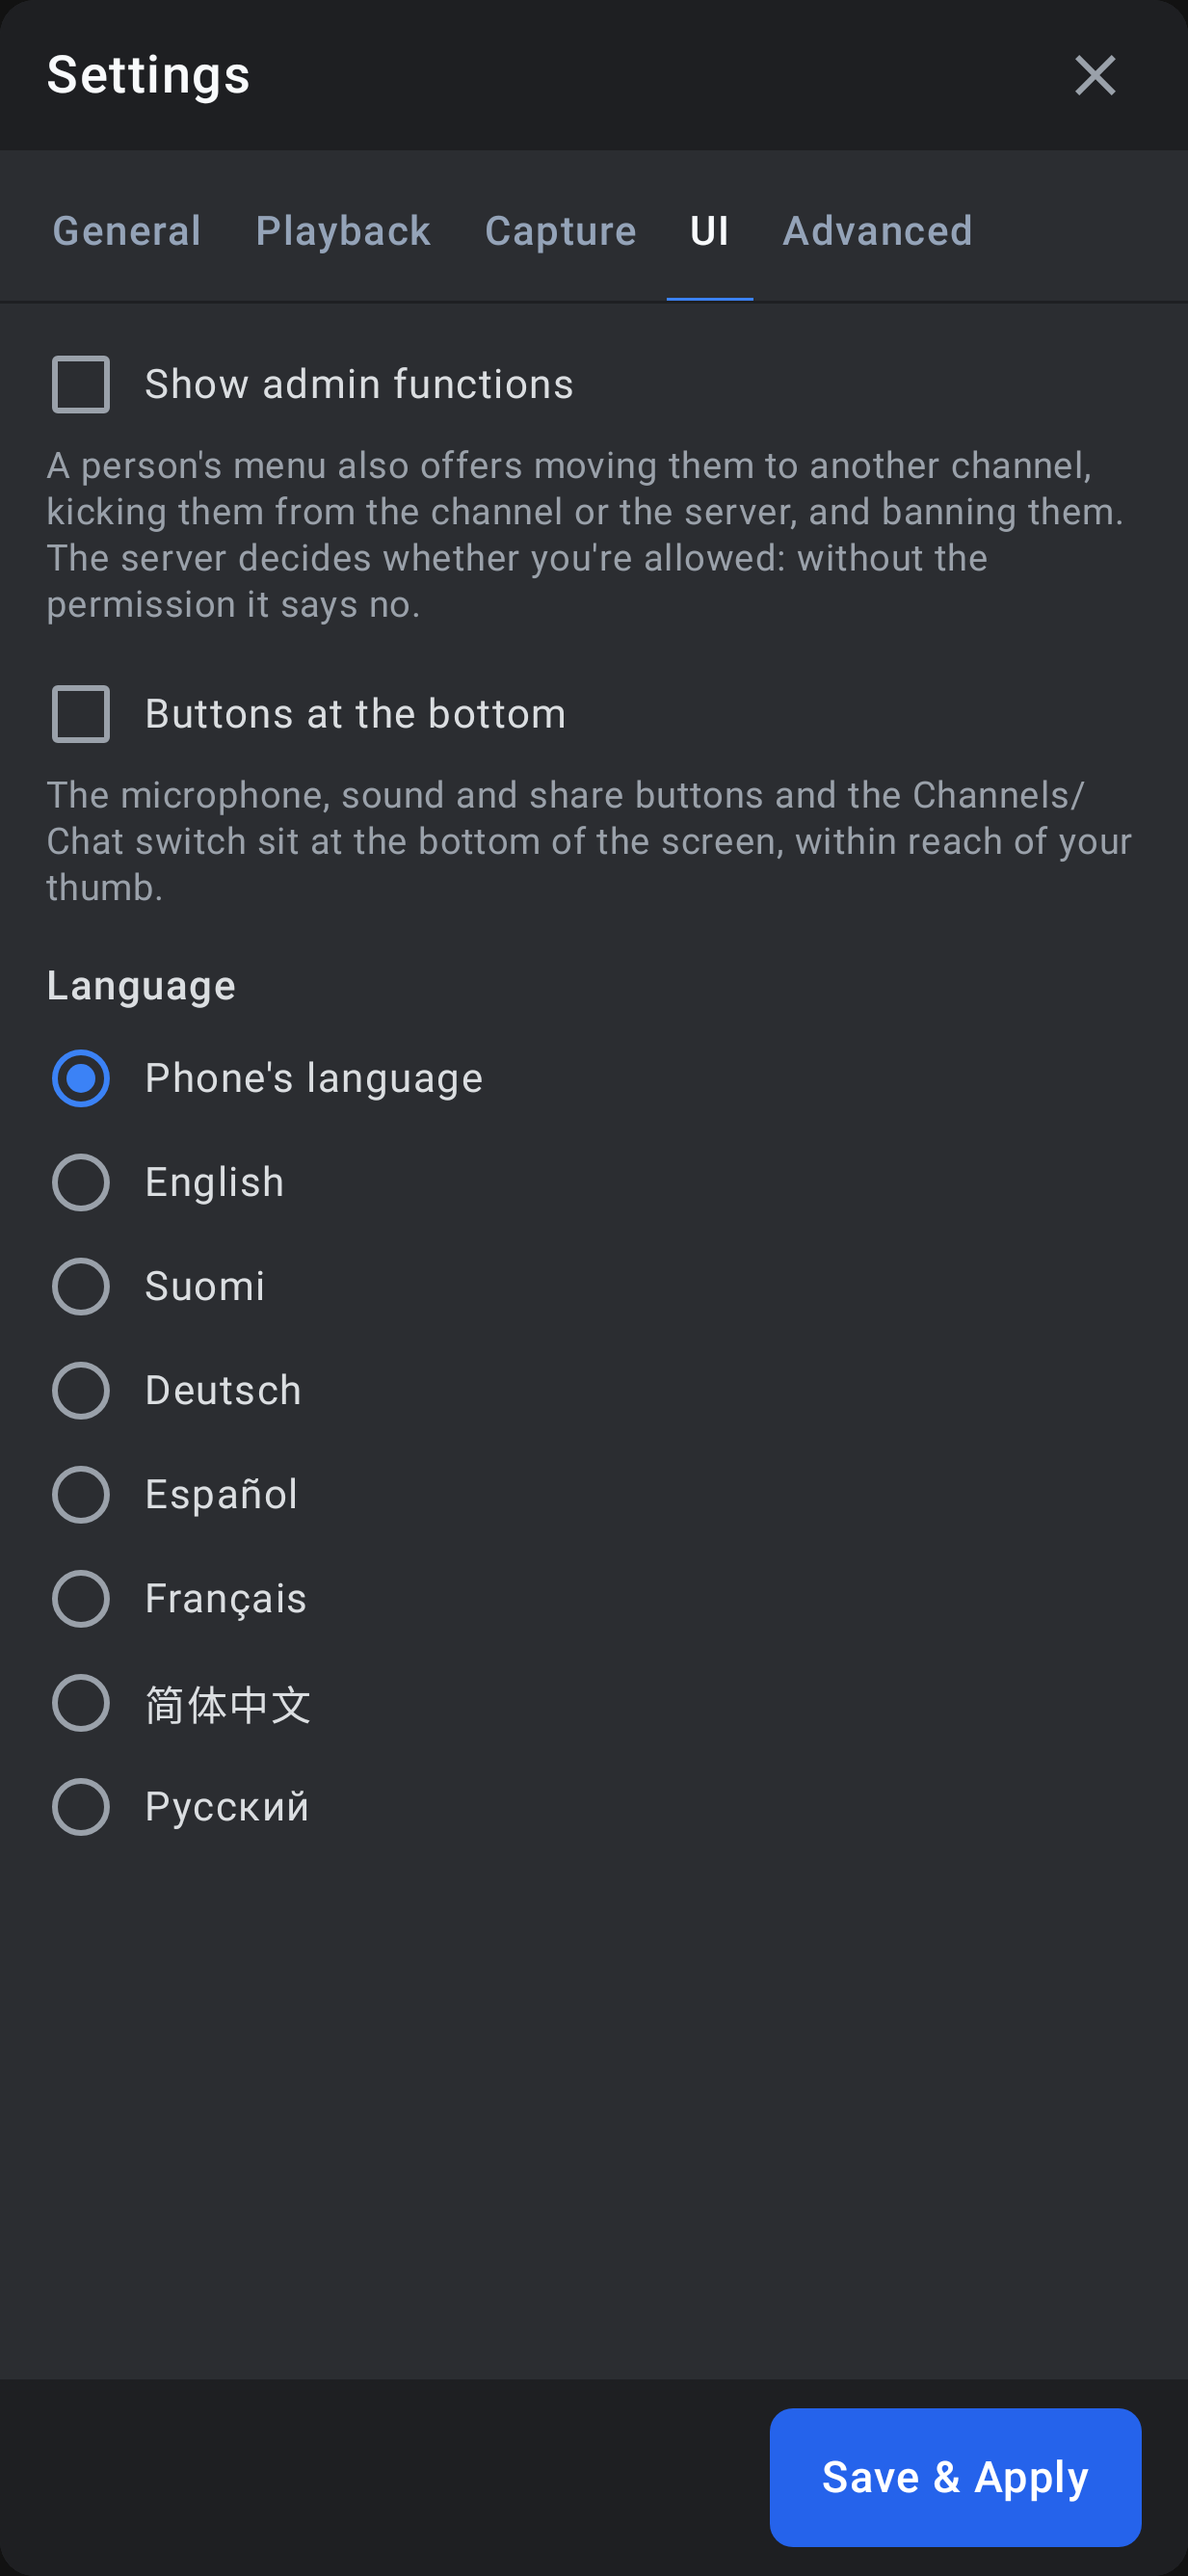
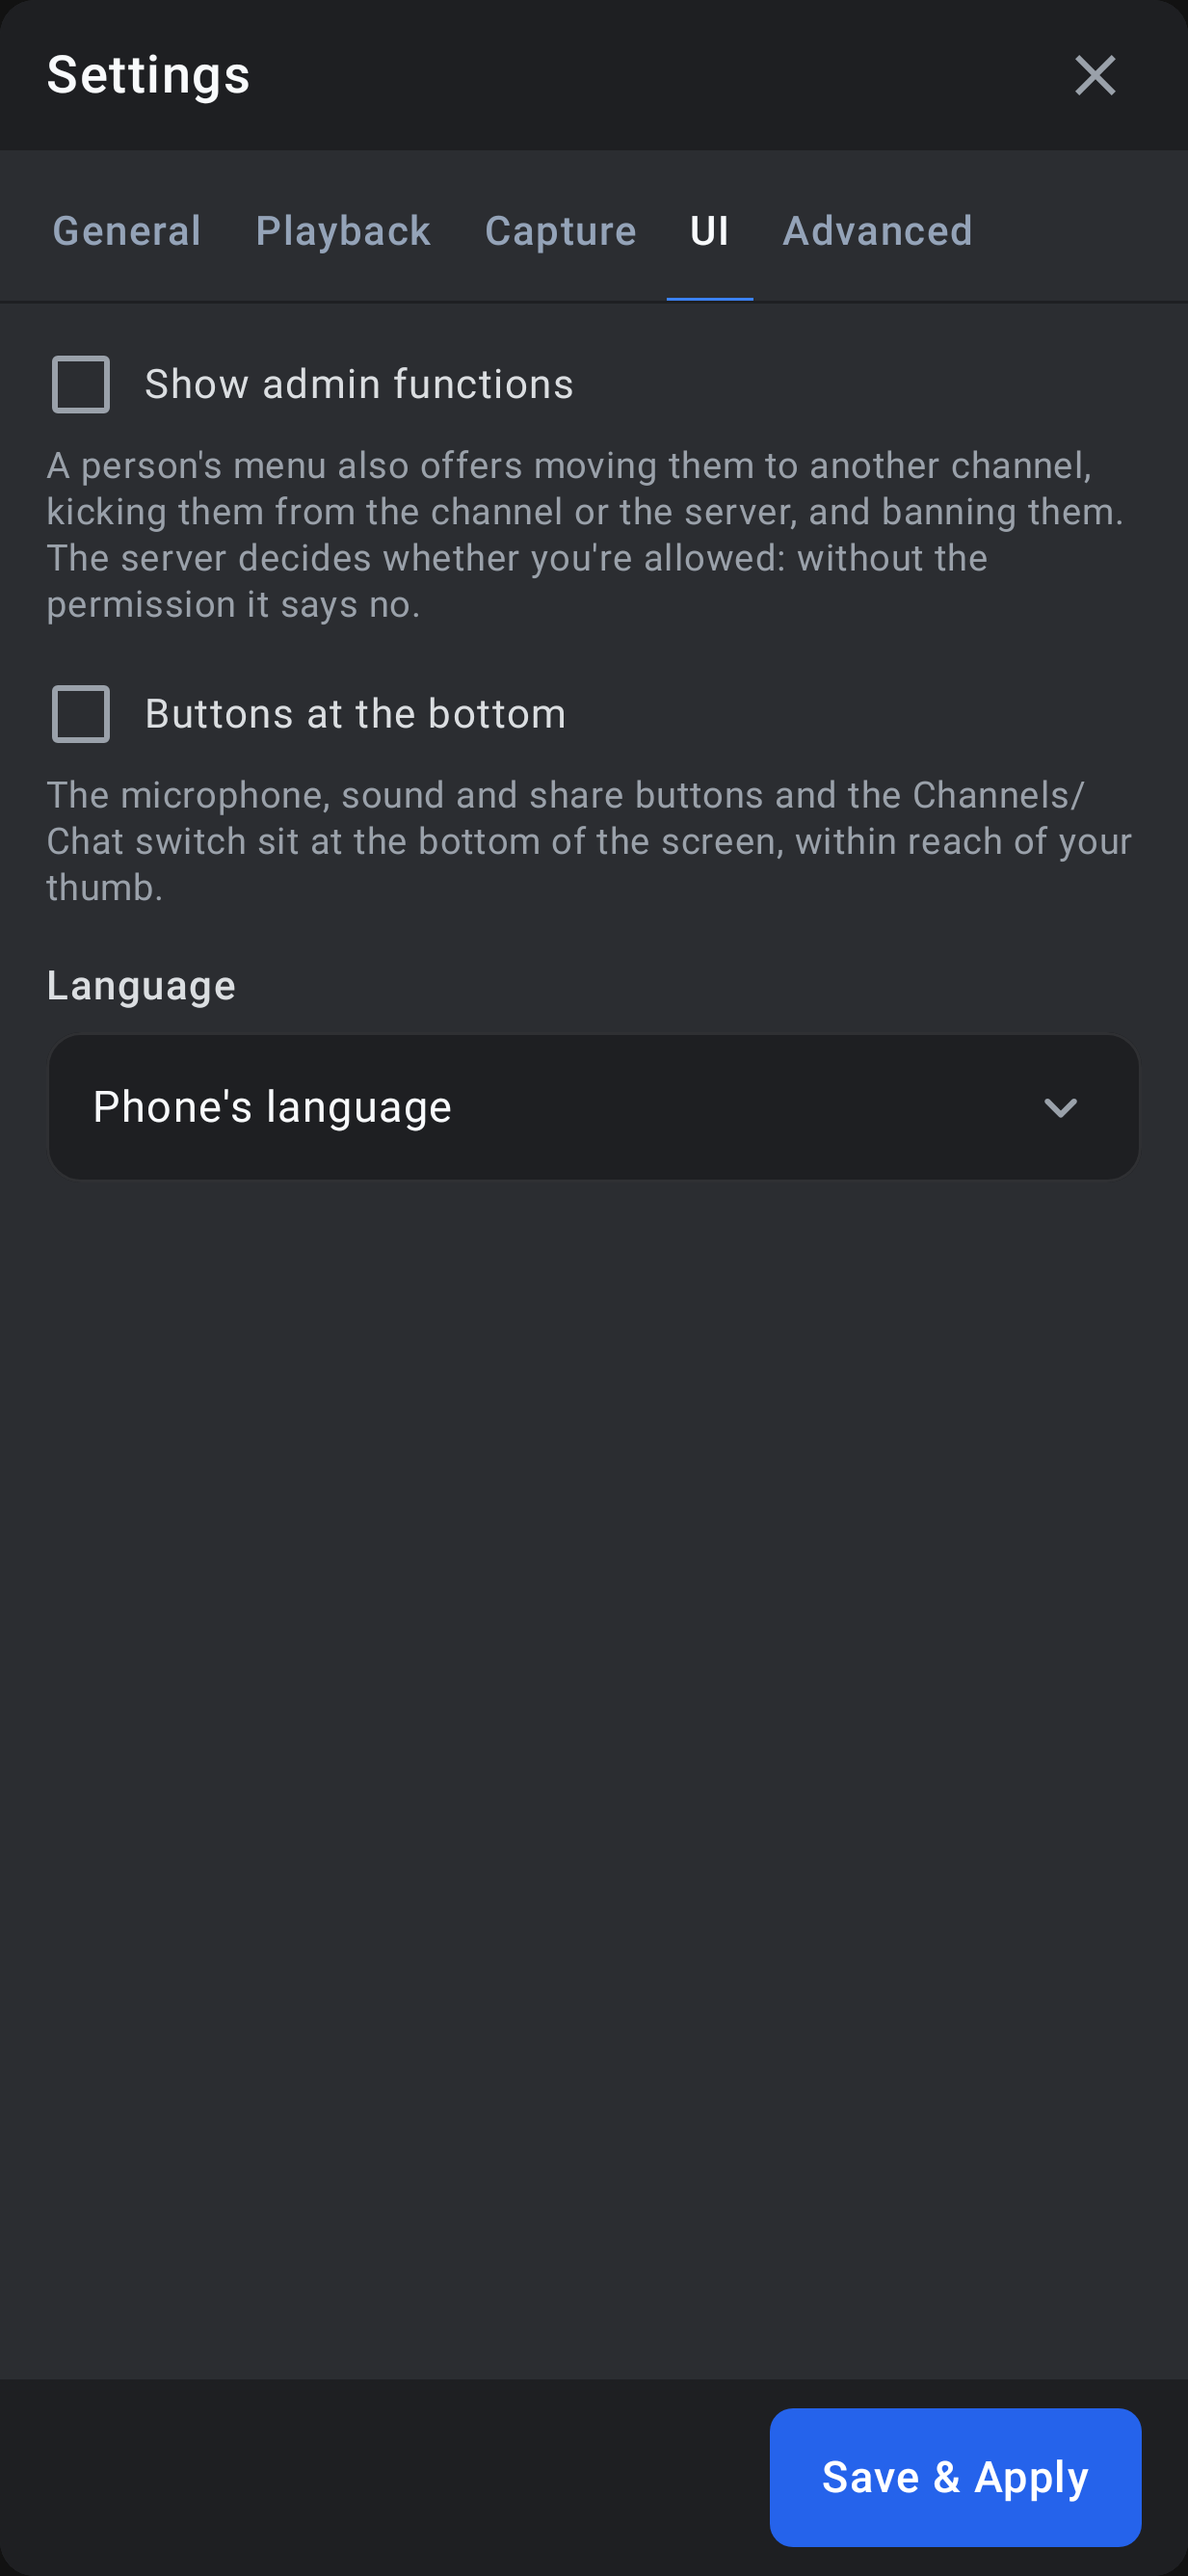
Settings: the language as a list to open
The languages were radio buttons under each other, growing with each
translation. Now one row shows the chosen one, and a tap opens the list
(it scrolls when there are many), the chosen one ticked.

Changed region(s): [[0.0308, 0.4037, 0.4006, 0.7142], [0.1233, 0.4968, 0.2466, 0.59], [0.1233, 0.6521, 0.2466, 0.7142]]

diff --git a/app/src/main/kotlin/io/github/korppujauho/pocketts/ui/SettingsDialog.kt b/app/src/main/kotlin/io/github/korppujauho/pocketts/ui/SettingsDialog.kt
@@ -7,6 +7,9 @@ import androidx.compose.material.icons.rounded.Key
 import androidx.compose.material.icons.rounded.DeleteOutline
 import androidx.compose.material.icons.filled.Close
 import androidx.compose.foundation.background
+import androidx.compose.foundation.border
+import androidx.compose.material.icons.rounded.Check
+import androidx.compose.material.icons.rounded.ExpandMore
 import androidx.compose.foundation.horizontalScroll
 import androidx.compose.foundation.clickable
 import androidx.compose.foundation.layout.Arrangement
@@ -464,12 +467,44 @@ private fun Ui(v: VoiceSettings, onChange: (VoiceSettings) -> Unit) {
     }
 }
 
-/** The app's language: the phone's, or one of the translations by its own name. */
+/**
+ * The app's language: the phone's, or one of the translations by its own name. One row showing the chosen one; a tap
+ * opens the list (it scrolls when there are many).
+ */
 @Composable
 private fun Language(tag: String, onChange: (String) -> Unit) {
+    val choices = listOf("" to stringResource(R.string.ui_language_phone)) + io.github.korppujauho.pocketts.AppLanguage.choices
+    val chosen = choices.firstOrNull { it.first == tag }?.second ?: choices.first().second
+    var open by remember { mutableStateOf(false) }
     Group(stringResource(R.string.ui_language)) {
-        Radio(stringResource(R.string.ui_language_phone), tag.isEmpty()) { onChange("") }
-        for ((t, name) in io.github.korppujauho.pocketts.AppLanguage.choices) Radio(name, tag == t) { onChange(t) }
+        Box {
+            Row(
+                Modifier.fillMaxWidth().clip(RoundedCornerShape(12.dp)).background(Ts.card)
+                    .border(1.dp, Color(0x14FFFFFF), RoundedCornerShape(12.dp))
+                    .clickable(role = androidx.compose.ui.semantics.Role.DropdownList) { open = true }
+                    .padding(horizontal = 16.dp, vertical = 14.dp),
+                verticalAlignment = Alignment.CenterVertically,
+            ) {
+                Text(chosen, color = Ts.bright, fontSize = 15.sp, modifier = Modifier.weight(1f))
+                androidx.compose.material3.Icon(
+                    androidx.compose.material.icons.Icons.Rounded.ExpandMore, contentDescription = null, tint = Ts.muted,
+                )
+            }
+            androidx.compose.material3.DropdownMenu(open, onDismissRequest = { open = false }, containerColor = Ts.card) {
+                for ((t, name) in choices) {
+                    androidx.compose.material3.DropdownMenuItem(
+                        text = { Text(name, color = if (t == tag) Ts.bright else Ts.text, fontWeight = if (t == tag) FontWeight.SemiBold else null) },
+                        trailingIcon = if (t == tag) {
+                            { androidx.compose.material3.Icon(androidx.compose.material.icons.Icons.Rounded.Check, contentDescription = null, tint = Ts.accent) }
+                        } else null,
+                        onClick = {
+                            open = false
+                            onChange(t)
+                        },
+                    )
+                }
+            }
+        }
     }
 }
 
